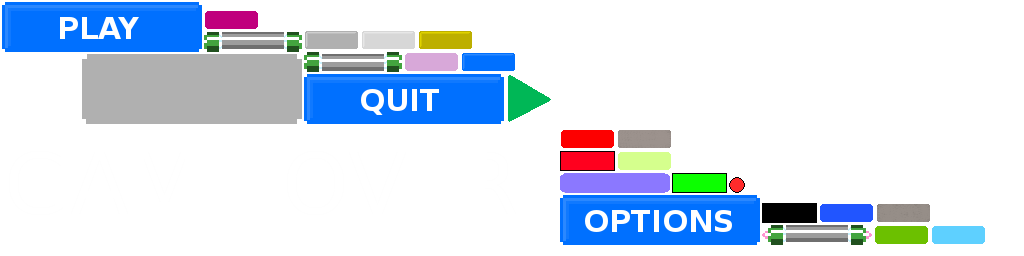
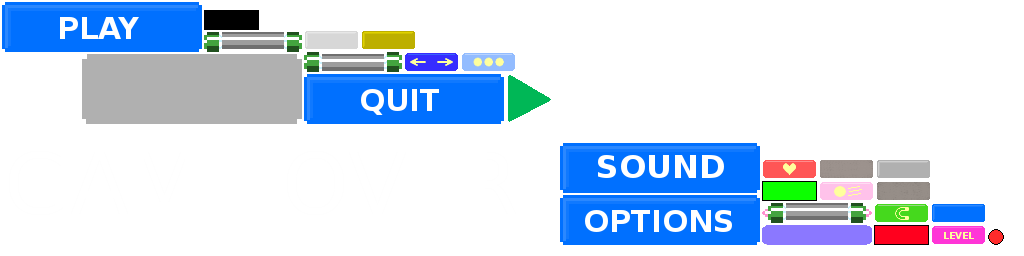
Bonus update

Changed region(s): [[0.5312, 0.5, 1.0, 0.9688], [0.2812, 0.0938, 0.5, 0.2812], [0.1875, 0.0312, 0.25, 0.125]]

diff --git a/core/src/com/jashlaviu/jashanoid/JashanoidScreen.java b/core/src/com/jashlaviu/jashanoid/JashanoidScreen.java
@@ -166,19 +166,20 @@ public class JashanoidScreen extends ScreenAdapter{
 	}
 	
 	private void updateBonus(){		
-		if(!bonuses.isEmpty()){
+		if(!bonuses.isEmpty()){		//if there is a bonus falling
 			Bonus bonus = bonuses.get(0);
 			
-			if(bonus.getY() <= 0){
+			if(bonus.getY() <= 0){	// If bonus boes beyond the screen
 				bonuses.get(0).remove();
 				bonuses.clear();
 			}
 			
+			// If bonus collides with the platform (player picked the bonus)
 			if(bonus.getCollisionBounds().overlaps(platform.getCollisionBounds())){		
-				disableBonuses();
-				bonus.apply();
-				bonus.remove();
-				bonuses.clear();
+				disableBonuses();   // disable the active bonuses. Only one active at a time.
+				bonus.apply();		
+				bonus.remove();		
+				bonuses.clear();	
 			}
 		}		
 		
@@ -263,26 +264,30 @@ public class JashanoidScreen extends ScreenAdapter{
 	}
 	
 	private Bonus getRandomBonus(JashanoidScreen screen, float x, float y){
-		int ran = MathUtils.random(1, 6);
+		int ran = MathUtils.random(1, 100);
 				
-		if(ran == 1)
-			return new BonusLevel(screen, x, y);
-		
-		if(ran == 2)
-			return new BonusLife(screen, x, y);
+		if(ran <= 70){
+			int ran2 = MathUtils.random(1, 4);
+			if(ran2 == 1)
+				return new BonusSlow(screen, x, y);
 			
-		if(ran == 3)
-			return new BonusSlow(screen, x, y);
-		
-		if(ran == 4)
-			return new BonusThree(screen, x, y);
-		
-		if(ran == 5)
-			return new BonusGlue(screen, x, y);
-		
-		if(ran == 6)
-			return new BonusExpand(screen, x, y);
-		
+			if(ran2 == 2)
+				return new BonusThree(screen, x, y);
+			
+			if(ran2 == 3)
+				return new BonusGlue(screen, x, y);
+			
+			if(ran2 == 4)
+				return new BonusExpand(screen, x, y);
+			
+		}else{
+			int ran2 = MathUtils.random(1, 2);
+			if(ran2 == 1)
+				return new BonusLevel(screen, x, y);
+			
+			if(ran2 == 2)
+				return new BonusLife(screen, x, y);
+		}
 		
 		return null;		
 	}

diff --git a/core/src/com/jashlaviu/jashanoid/TextureLoader.java b/core/src/com/jashlaviu/jashanoid/TextureLoader.java
@@ -9,7 +9,7 @@ public class TextureLoader{
 	
 	public TextureAtlas atlas;
 	public static TextureRegion platform, ball, block1, block2, block3;
-	public static TextureRegion bonus_01, bonus_02, bonus_03, bonus_04, bonus_05, bonus_06, bonus_07;
+	public static TextureRegion bonus_expand, bonus_glue, bonus_level, bonus_life, bonus_slow, bonus_three;
 	public static TextureRegion brick_01, brick_02, brick_03, brick_11, brick_12, brick_21, ball_02;
 	public static TextureRegion hearth, platform_02, platform_03, platform_04, platform_05;
 	public static TextureRegion game_over, cursor, cursor_2;
@@ -29,13 +29,12 @@ public class TextureLoader{
 		
 		brick_21 = load("brick", 21);		
 		
-		bonus_01 = load("bonus", 1);
-		bonus_02 = load("bonus", 2);
-		bonus_03 = load("bonus", 3);
-		bonus_04 = load("bonus", 4);
-		bonus_05 = load("bonus", 5);
-		bonus_06 = load("bonus", 6);
-		bonus_07 = load("bonus", 7);
+		bonus_expand = load("bonus_expand", 1);
+		bonus_glue = load("bonus_glue", 1);
+		bonus_level = load("bonus_level", 1);
+		bonus_life = load("bonus_life", 1);
+		bonus_slow = load("bonus_slow", 1);
+		bonus_three = load("bonus_three", 1);
 		
 		platform_04 = load("platform", 4);
 		platform_05 = load("platform", 5);

diff --git a/core/src/com/jashlaviu/jashanoid/actors/bonus/BonusLevel.java b/core/src/com/jashlaviu/jashanoid/actors/bonus/BonusLevel.java
@@ -6,7 +6,7 @@ import com.jashlaviu.jashanoid.TextureLoader;
 public class BonusLevel extends Bonus {
 
 	public BonusLevel(JashanoidScreen gameScreen, float posX, float posY) {
-		super(gameScreen, TextureLoader.bonus_01, posX, posY);		
+		super(gameScreen, TextureLoader.bonus_level, posX, posY);		
 	}
 	
 	@Override

diff --git a/core/src/com/jashlaviu/jashanoid/actors/bonus/BonusExpand.java b/core/src/com/jashlaviu/jashanoid/actors/bonus/BonusExpand.java
@@ -7,7 +7,7 @@ import com.jashlaviu.jashanoid.TextureLoader;
 public class BonusExpand extends Bonus {
 
 	public BonusExpand(JashanoidScreen gameScreen, float posX, float posY) {
-		super(gameScreen, TextureLoader.bonus_06, posX, posY);
+		super(gameScreen, TextureLoader.bonus_expand, posX, posY);
 	}
 	
 	@Override

diff --git a/core/src/com/jashlaviu/jashanoid/actors/bonus/BonusGlue.java b/core/src/com/jashlaviu/jashanoid/actors/bonus/BonusGlue.java
@@ -7,7 +7,7 @@ import com.jashlaviu.jashanoid.TextureLoader;
 public class BonusGlue extends Bonus {
 
 	public BonusGlue(JashanoidScreen gameScreen, float posX, float posY) {
-		super(gameScreen, TextureLoader.bonus_05, posX, posY);
+		super(gameScreen, TextureLoader.bonus_glue, posX, posY);
 	}
 	
 	@Override

diff --git a/core/src/com/jashlaviu/jashanoid/actors/bonus/BonusThree.java b/core/src/com/jashlaviu/jashanoid/actors/bonus/BonusThree.java
@@ -9,7 +9,7 @@ import com.jashlaviu.jashanoid.actors.Ball;
 public class BonusThree extends Bonus{
 
 	public BonusThree(JashanoidScreen gameScreen, float posX, float posY) {
-		super(gameScreen, TextureLoader.bonus_07, posX, posY);
+		super(gameScreen, TextureLoader.bonus_three, posX, posY);
 	}
 	
 	@Override

diff --git a/core/src/com/jashlaviu/jashanoid/actors/bonus/BonusSlow.java b/core/src/com/jashlaviu/jashanoid/actors/bonus/BonusSlow.java
@@ -6,7 +6,7 @@ import com.jashlaviu.jashanoid.TextureLoader;
 public class BonusSlow extends Bonus{
 
 	public BonusSlow(JashanoidScreen gameScreen, float posX, float posY) {
-		super(gameScreen, TextureLoader.bonus_03, posX, posY);
+		super(gameScreen, TextureLoader.bonus_slow, posX, posY);
 	}
 	
 	@Override

diff --git a/core/src/com/jashlaviu/jashanoid/actors/bonus/BonusLife.java b/core/src/com/jashlaviu/jashanoid/actors/bonus/BonusLife.java
@@ -6,7 +6,7 @@ import com.jashlaviu.jashanoid.TextureLoader;
 public class BonusLife extends Bonus {
 
 	public BonusLife(JashanoidScreen gameScreen, float posX, float posY) {
-		super(gameScreen, TextureLoader.bonus_02, posX, posY);
+		super(gameScreen, TextureLoader.bonus_life, posX, posY);
 		
 	}
 	

diff --git a/core/src/com/jashlaviu/jashanoid/menu/MenuButton.java b/core/src/com/jashlaviu/jashanoid/menu/MenuButton.java
@@ -4,7 +4,7 @@ import com.badlogic.gdx.graphics.g2d.TextureRegion;
 import com.jashlaviu.jashanoid.actors.ActorJashanoid;
 
 public class MenuButton extends ActorJashanoid{
-		
+	
 	public MenuButton(TextureRegion region, float x, float y) {
 		super(region);
 		this.setPosition(x, y);		
